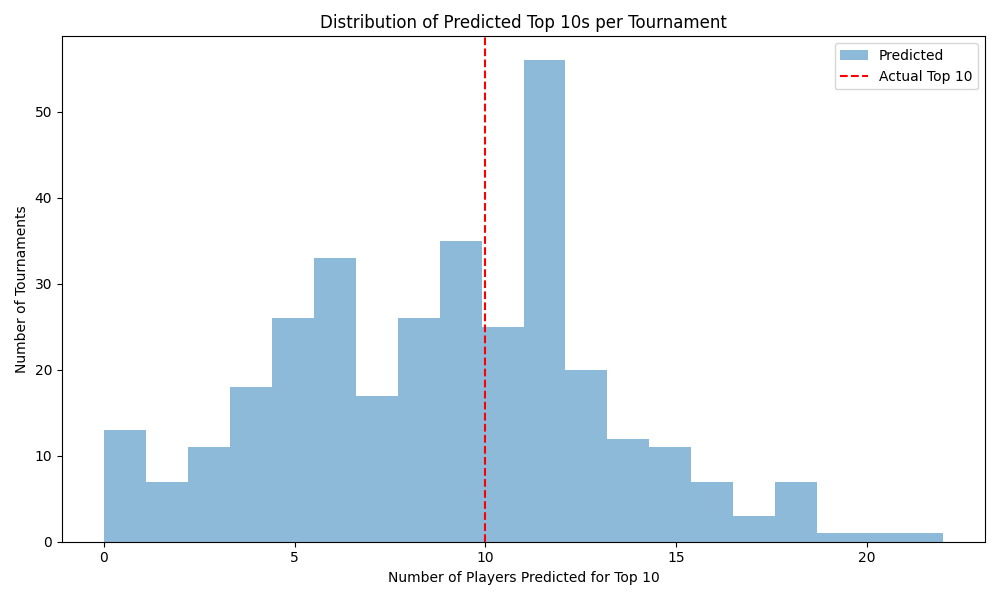
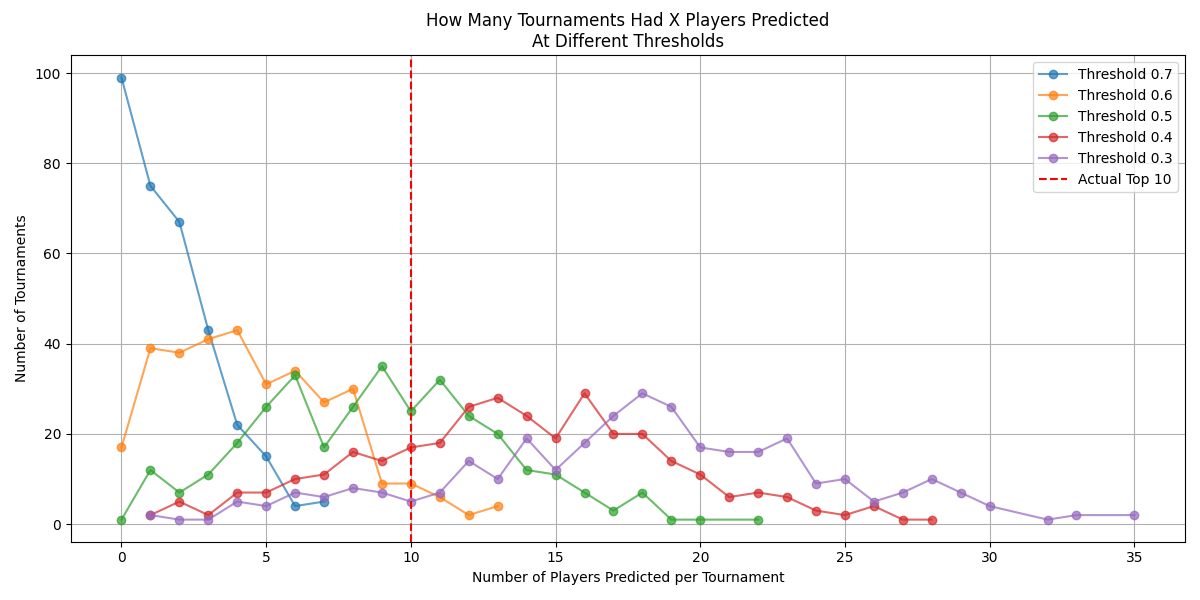
db

diff --git a/src/create_database.py b/src/create_database.py
@@ -1,0 +1,234 @@
+import sqlite3
+import pandas as pd
+import os
+from datetime import datetime
+
+# Set paths
+BASE_DIR = '/Users/kevinklatman/Development/Code/ai'
+DATA_DIR = os.path.join(BASE_DIR, 'data')
+DB_PATH = os.path.join(DATA_DIR, 'pga_predictions.db')
+
+def create_tables(conn):
+    """Create all necessary tables in the database."""
+    
+    # Create tournaments table
+    conn.execute('''
+    CREATE TABLE IF NOT EXISTS tournaments (
+        tournament_id INTEGER PRIMARY KEY,
+        tournament_name TEXT,
+        date DATE,
+        course TEXT,
+        purse REAL,
+        season INTEGER
+    )
+    ''')
+    
+    # Create players table
+    conn.execute('''
+    CREATE TABLE IF NOT EXISTS players (
+        player_id INTEGER PRIMARY KEY,
+        player_name TEXT
+    )
+    ''')
+    
+    # Create historical_stats table
+    conn.execute('''
+    CREATE TABLE IF NOT EXISTS historical_stats (
+        id INTEGER PRIMARY KEY AUTOINCREMENT,
+        tournament_id INTEGER,
+        player_id INTEGER,
+        sg_total_last_3 REAL,
+        sg_total_last_5 REAL,
+        sg_total_last_10 REAL,
+        sg_t2g_last_3 REAL,
+        sg_t2g_last_5 REAL,
+        sg_t2g_last_10 REAL,
+        sg_putt_last_3 REAL,
+        sg_putt_last_5 REAL,
+        sg_putt_last_10 REAL,
+        sg_arg_last_3 REAL,
+        sg_arg_last_5 REAL,
+        sg_arg_last_10 REAL,
+        sg_app_last_3 REAL,
+        sg_app_last_5 REAL,
+        sg_app_last_10 REAL,
+        sg_ott_last_3 REAL,
+        sg_ott_last_5 REAL,
+        sg_ott_last_10 REAL,
+        made_cut_last_3 REAL,
+        made_cut_last_5 REAL,
+        made_cut_last_10 REAL,
+        FOREIGN KEY (tournament_id) REFERENCES tournaments(tournament_id),
+        FOREIGN KEY (player_id) REFERENCES players(player_id)
+    )
+    ''')
+    
+    # Create predictions table
+    conn.execute('''
+    CREATE TABLE IF NOT EXISTS predictions (
+        id INTEGER PRIMARY KEY AUTOINCREMENT,
+        tournament_id INTEGER,
+        player_id INTEGER,
+        player TEXT,
+        date DATE,
+        predicted_probability REAL,
+        threshold_0_3 INTEGER,
+        threshold_0_4 INTEGER,
+        threshold_0_5 INTEGER,
+        threshold_0_6 INTEGER,
+        threshold_0_7 INTEGER,
+        actual_top_10 INTEGER,
+        FOREIGN KEY (tournament_id) REFERENCES tournaments(tournament_id),
+        FOREIGN KEY (player_id) REFERENCES players(player_id)
+    )
+    ''')
+    
+    conn.commit()
+
+def load_data_to_db(conn, historical_df, predictions_df):
+    """Load data from DataFrames into the database."""
+    
+    # Load tournaments
+    tournaments_df = historical_df[['tournament_id', 'tournament_name', 'date', 'course', 'purse', 'season']].drop_duplicates()
+    tournaments_df.to_sql('tournaments', conn, if_exists='append', index=False)
+    
+    # Load players
+    players_df = historical_df[['player_id', 'player']].drop_duplicates()
+    players_df.columns = ['player_id', 'player_name']
+    players_df.to_sql('players', conn, if_exists='append', index=False)
+    
+    # Load historical stats
+    stats_cols = [col for col in historical_df.columns if '_last_' in col]
+    historical_stats_df = historical_df[['tournament_id', 'player_id'] + stats_cols]
+    historical_stats_df.to_sql('historical_stats', conn, if_exists='append', index=False)
+    
+    # Load predictions
+    threshold_cols = [f'threshold_{str(t).replace(".", "_")}' for t in [0.3, 0.4, 0.5, 0.6, 0.7]]
+    
+    # Merge predictions with historical data to get player_id
+    predictions_df = pd.merge(
+        predictions_df,
+        historical_df[['tournament_id', 'player', 'player_id']].drop_duplicates(),
+        on=['tournament_id', 'player'],
+        how='left'
+    )
+    
+    # Convert predictions to thresholds
+    for threshold in [0.3, 0.4, 0.5, 0.6, 0.7]:
+        col_name = f'threshold_{str(threshold).replace(".", "_")}'
+        predictions_df[col_name] = (predictions_df['predicted_probability'] >= threshold).astype(int)
+    
+    # Prepare predictions DataFrame for database
+    predictions_for_db = predictions_df[['tournament_id', 'player_id', 'player', 'date', 'predicted_probability'] + 
+                                      threshold_cols + ['actual_top_10']]
+    
+    predictions_for_db.to_sql('predictions', conn, if_exists='append', index=False)
+    
+    conn.commit()
+
+def create_views(conn):
+    """Create useful views in the database."""
+    
+    # View for prediction accuracy by threshold
+    conn.execute('''
+    CREATE VIEW IF NOT EXISTS prediction_accuracy AS
+    SELECT 
+        COUNT(*) as total_predictions,
+        SUM(CASE WHEN threshold_0_7 = 1 AND actual_top_10 = 1 THEN 1 ELSE 0 END) as correct_0_7,
+        SUM(CASE WHEN threshold_0_6 = 1 AND actual_top_10 = 1 THEN 1 ELSE 0 END) as correct_0_6,
+        SUM(CASE WHEN threshold_0_5 = 1 AND actual_top_10 = 1 THEN 1 ELSE 0 END) as correct_0_5,
+        SUM(CASE WHEN threshold_0_4 = 1 AND actual_top_10 = 1 THEN 1 ELSE 0 END) as correct_0_4,
+        SUM(CASE WHEN threshold_0_3 = 1 AND actual_top_10 = 1 THEN 1 ELSE 0 END) as correct_0_3,
+        SUM(threshold_0_7) as total_0_7,
+        SUM(threshold_0_6) as total_0_6,
+        SUM(threshold_0_5) as total_0_5,
+        SUM(threshold_0_4) as total_0_4,
+        SUM(threshold_0_3) as total_0_3
+    FROM predictions
+    ''')
+    
+    # View for player performance
+    conn.execute('''
+    CREATE VIEW IF NOT EXISTS player_performance AS
+    SELECT 
+        p.player_name,
+        COUNT(*) as total_tournaments,
+        SUM(pred.actual_top_10) as actual_top_10s,
+        AVG(pred.predicted_probability) as avg_prediction,
+        SUM(pred.threshold_0_7) as predictions_0_7,
+        SUM(CASE WHEN pred.threshold_0_7 = 1 AND pred.actual_top_10 = 1 THEN 1 ELSE 0 END) as correct_0_7
+    FROM predictions pred
+    JOIN players p ON pred.player_id = p.player_id
+    GROUP BY p.player_id, p.player_name
+    ''')
+    
+    conn.commit()
+
+def main():
+    # Delete existing database if it exists
+    if os.path.exists(DB_PATH):
+        os.remove(DB_PATH)
+        print(f"Deleted existing database: {DB_PATH}")
+    
+    # Create database connection
+    conn = sqlite3.connect(DB_PATH)
+    
+    try:
+        # Create tables
+        print("Creating database tables...")
+        create_tables(conn)
+        
+        # Load historical data
+        print("Loading historical data...")
+        historical_df = pd.read_csv(os.path.join(DATA_DIR, 'pga_tour_historical.csv'))
+        
+        # Run predictions
+        print("Running model predictions...")
+        import logistic_regression_model as lrm
+        X_train, X_test, y_train, y_test, feature_cols, tournament_info_test = lrm.load_and_prepare_data()
+        model, y_pred, y_pred_proba, _ = lrm.train_and_evaluate_model(X_train, X_test, y_train, y_test)
+        predictions_df = lrm.analyze_predictions_by_tournament(tournament_info_test, y_pred, y_pred_proba, model, feature_cols)
+        
+        # Load data into database
+        print("Loading data into database...")
+        load_data_to_db(conn, historical_df, predictions_df)
+        
+        # Create views
+        print("Creating database views...")
+        create_views(conn)
+        
+        print(f"\nDatabase created successfully at: {DB_PATH}")
+        
+        # Show some sample queries
+        print("\nSample Queries:")
+        
+        print("\n1. Overall prediction accuracy:")
+        accuracy_df = pd.read_sql('''
+            SELECT 
+                ROUND(CAST(correct_0_7 AS FLOAT) / total_0_7 * 100, 1) as accuracy_0_7,
+                ROUND(CAST(correct_0_6 AS FLOAT) / total_0_6 * 100, 1) as accuracy_0_6,
+                ROUND(CAST(correct_0_5 AS FLOAT) / total_0_5 * 100, 1) as accuracy_0_5
+            FROM prediction_accuracy
+        ''', conn)
+        print(accuracy_df)
+        
+        print("\n2. Top 10 players by prediction accuracy (0.7 threshold):")
+        top_players_df = pd.read_sql('''
+            SELECT 
+                player_name,
+                total_tournaments,
+                predictions_0_7,
+                correct_0_7,
+                ROUND(CAST(correct_0_7 AS FLOAT) / predictions_0_7 * 100, 1) as accuracy
+            FROM player_performance
+            WHERE predictions_0_7 >= 5
+            ORDER BY accuracy DESC
+            LIMIT 10
+        ''', conn)
+        print(top_players_df)
+        
+    finally:
+        conn.close()
+
+if __name__ == "__main__":
+    main()

diff --git a/src/logistic_regression_model.py b/src/logistic_regression_model.py
@@ -58,46 +58,91 @@ def load_and_prepare_data():
     
     return X_train_scaled, X_test_scaled, y_train, y_test, feature_cols, tournament_info_test
 
-def analyze_predictions_by_tournament(tournament_info, y_pred, y_pred_proba):
-    """Analyze how many players we're predicting for top 10 in each tournament."""
+def analyze_predictions_by_tournament(tournament_info, y_pred, y_pred_proba, model, feature_cols):
+    """Analyze predictions and show which stats contributed to high probabilities."""
     # Combine predictions with tournament info
     predictions_df = pd.DataFrame({
         'tournament_id': tournament_info['tournament_id'],
         'player': tournament_info['player'],
         'date': pd.to_datetime(tournament_info['date']),
         'actual_top_10': tournament_info['is_top_10'],
-        'predicted_top_10': y_pred,
         'predicted_probability': y_pred_proba
     })
     
-    # Group by tournament and analyze predictions
-    tournament_analysis = predictions_df.groupby('tournament_id').agg({
-        'player': 'count',  # Total players
-        'actual_top_10': 'sum',  # Actual number of top 10s
-        'predicted_top_10': 'sum'  # Predicted number of top 10s
-    }).reset_index()
+    # Add threshold flags
+    thresholds = [0.7, 0.6, 0.5, 0.4, 0.3]
+    for threshold in thresholds:
+        predictions_df[f'predicted_{threshold}'] = (y_pred_proba >= threshold).astype(int)
     
-    tournament_analysis.columns = ['tournament_id', 'total_players', 'actual_top_10s', 'predicted_top_10s']
+    # Group by tournament and analyze predictions at each threshold
+    print("\nPrediction Analysis by Threshold:")
+    for threshold in thresholds:
+        n_predicted = predictions_df[f'predicted_{threshold}'].sum()
+        n_correct = ((predictions_df[f'predicted_{threshold}'] == 1) & 
+                    (predictions_df['actual_top_10'] == 1)).sum()
+        print(f"\nThreshold {threshold}:")
+        print(f"Total players predicted: {n_predicted}")
+        print(f"Correct predictions: {n_correct}")
+        print(f"Success rate: {n_correct/n_predicted*100:.1f}%")
     
-    # Print summary statistics
-    print("\nPrediction Analysis by Tournament:")
-    print(f"Number of tournaments: {len(tournament_analysis)}")
-    print(f"Average players per tournament: {tournament_analysis['total_players'].mean():.1f}")
-    print(f"Average actual top 10s: {tournament_analysis['actual_top_10s'].mean():.1f}")
-    print(f"Average predicted top 10s: {tournament_analysis['predicted_top_10s'].mean():.1f}")
+    # Analyze predictions per tournament
+    print("\nDetailed Tournament Analysis:")
+    tournament_predictions = predictions_df.groupby('tournament_id').agg({
+        'player': 'count',          # Number of players in tournament
+        'actual_top_10': 'sum',     # Number of actual top 10s (should be 10)
+        'date': 'first'             # Tournament date
+    }).sort_values('date')
     
-    # Show distribution of predicted top 10s
-    print("\nDistribution of predicted top 10s per tournament:")
-    print(tournament_analysis['predicted_top_10s'].value_counts().sort_index())
+    # Add prediction counts for each threshold
+    for threshold in thresholds:
+        col_name = f'predicted_{threshold}'
+        tournament_predictions[col_name] = \
+            predictions_df.groupby('tournament_id')[f'predicted_{threshold}'].sum()
+    
+    print("\nSample of tournament predictions:")
+    print(tournament_predictions.head().to_string())
+    
+    # Show distribution of number of predictions
+    print("\nFor each threshold, number of tournaments with X predicted players:")
+    for threshold in thresholds:
+        col_name = f'predicted_{threshold}'
+        prediction_counts = tournament_predictions[col_name].value_counts().sort_index()
+        print(f"\nThreshold {threshold}:")
+        print("Num Players Predicted    Num Tournaments")
+        print("-" * 45)
+        for n_players, n_tournaments in prediction_counts.items():
+            print(f"{n_players:>20d}    {n_tournaments:>15d}")
+    
+    # Calculate averages
+    print("\nAverage predictions per tournament:")
+    for threshold in thresholds:
+        avg_predictions = tournament_predictions[f'predicted_{threshold}'].mean()
+        print(f"Threshold {threshold}: {avg_predictions:.1f} players")
+    
+    # Get feature importance
+    feature_importance = pd.DataFrame({
+        'feature': feature_cols,
+        'importance': np.abs(model.coef_[0])
+    }).sort_values('importance', ascending=False)
+    
+    print("\nTop 5 most important features:")
+    print(feature_importance.head().to_string())
     
     # Plot distribution
-    plt.figure(figsize=(10, 6))
-    plt.hist(tournament_analysis['predicted_top_10s'], bins=20, alpha=0.5, label='Predicted')
+    plt.figure(figsize=(12, 6))
+    for threshold in thresholds:
+        counts = tournament_predictions[f'predicted_{threshold}'].value_counts().sort_index()
+        plt.plot(counts.index, counts.values, 
+                label=f'Threshold {threshold}', 
+                alpha=0.7, 
+                marker='o')
+    
     plt.axvline(x=10, color='r', linestyle='--', label='Actual Top 10')
-    plt.xlabel('Number of Players Predicted for Top 10')
+    plt.xlabel('Number of Players Predicted per Tournament')
     plt.ylabel('Number of Tournaments')
-    plt.title('Distribution of Predicted Top 10s per Tournament')
+    plt.title('How Many Tournaments Had X Players Predicted\nAt Different Thresholds')
     plt.legend()
+    plt.grid(True)
     plt.tight_layout()
     plt.savefig(os.path.join(FIGURES_DIR, 'predictions_per_tournament.png'))
     plt.close()
@@ -220,7 +265,7 @@ def main():
     model, y_pred, y_pred_proba, threshold_results = train_and_evaluate_model(X_train, X_test, y_train, y_test)
     
     # Analyze predictions by tournament
-    predictions_df = analyze_predictions_by_tournament(tournament_info_test, y_pred, y_pred_proba)
+    predictions_df = analyze_predictions_by_tournament(tournament_info_test, y_pred, y_pred_proba, model, feature_cols)
     
     # Print classification report
     print("\nClassification Report:")
